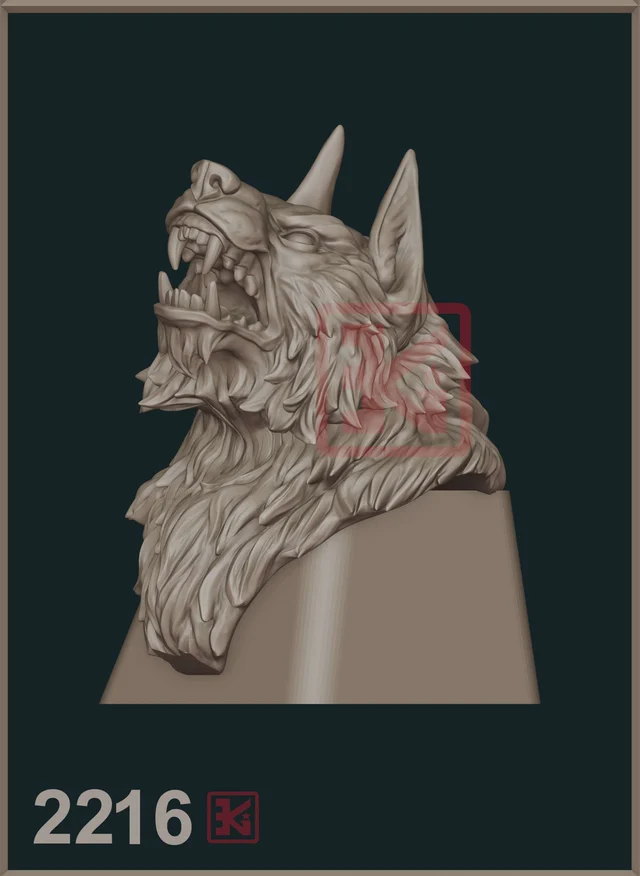
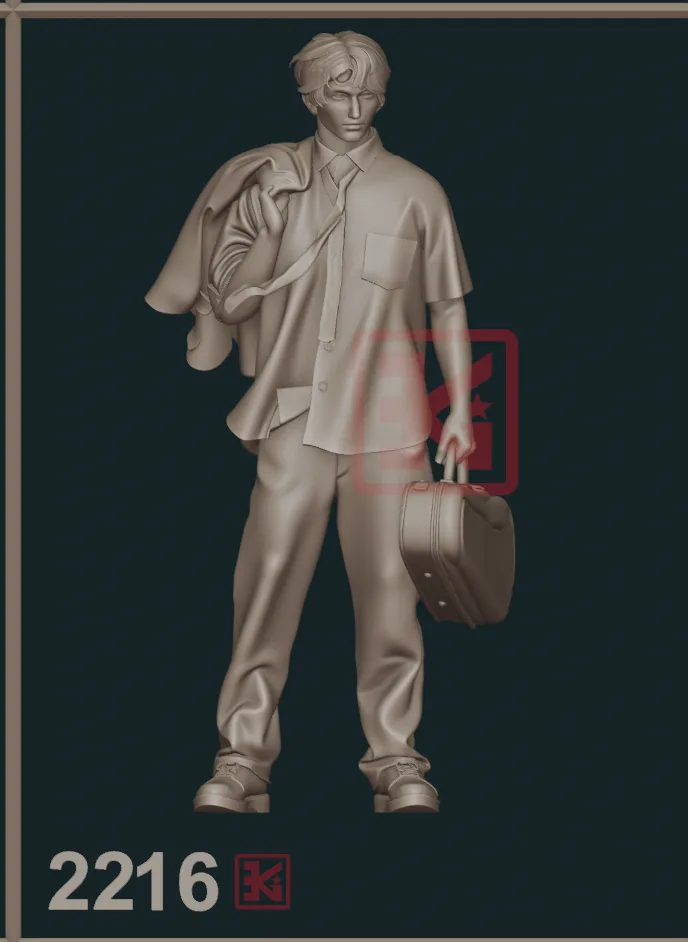
Sửa ảnh và tên sai của mã 2216, 2217
File nguồn trong thư mục import bị gán nhầm nội dung (tượng đầu sói,
đầu lâu cơ khí) trong khi ảnh/tên đúng theo file tổng hợp gốc là 2 nhân
vật người (nam công sở xách cặp, nam áo yếm quân đội). Crop lại ảnh từ
file tổng hợp gốc và sửa tên/danh mục khớp đúng.

diff --git a/src/data/importedProducts2200.ts b/src/data/importedProducts2200.ts
@@ -58,8 +58,8 @@ export const batch2200Products: Product[] = [
   p(2213, 'Quý ông vest bỏ tay túi', 'nam', 'Công sở'),
   p(2214, 'Người đàn ông lớn tuổi đứng thẳng', 'caotuoi', 'Người cao tuổi'),
   p(2215, 'Nữ công sở cầm máy tính bảng', 'nu', 'Công sở'),
-  p(2216, 'Tượng đầu sói chạm khắc', 'dongvat', 'Fantasy'),
-  p(2217, 'Tượng đầu lâu cơ khí', 'phukien', 'Sci-fi'),
+  p(2216, 'Nam công sở khoác áo vest xách cặp', 'nam', 'Công sở'),
+  p(2217, 'Nam áo yếm quân đội chống nạnh', 'nam', 'Đường phố'),
   p(2218, 'Nữ kiếm sĩ chống kiếm', 'nu', 'Fantasy'),
   p(2219, 'Nhiếp ảnh gia quỳ chụp hình', 'nam', 'Nhiếp ảnh'),
   p(2220, 'Vị vua già chống gậy', 'caotuoi', 'Hoàng gia'),

diff --git a/src/data/productNameOverrides.ts b/src/data/productNameOverrides.ts
@@ -2018,8 +2018,6 @@ export const productNameOverrides: Record<string, string[]> = {
   "2213": ["Quý ông vest bỏ tay túi"],
   "2214": ["Người đàn ông lớn tuổi đứng thẳng"],
   "2215": ["Nữ công sở cầm máy tính bảng"],
-  "2216": ["Tượng đầu sói chạm khắc"],
-  "2217": ["Tượng đầu lâu cơ khí"],
   "2218": ["Nữ kiếm sĩ chống kiếm"],
   "2219": ["Nhiếp ảnh gia quỳ chụp hình"],
   "2220": ["Vị vua già chống gậy"],